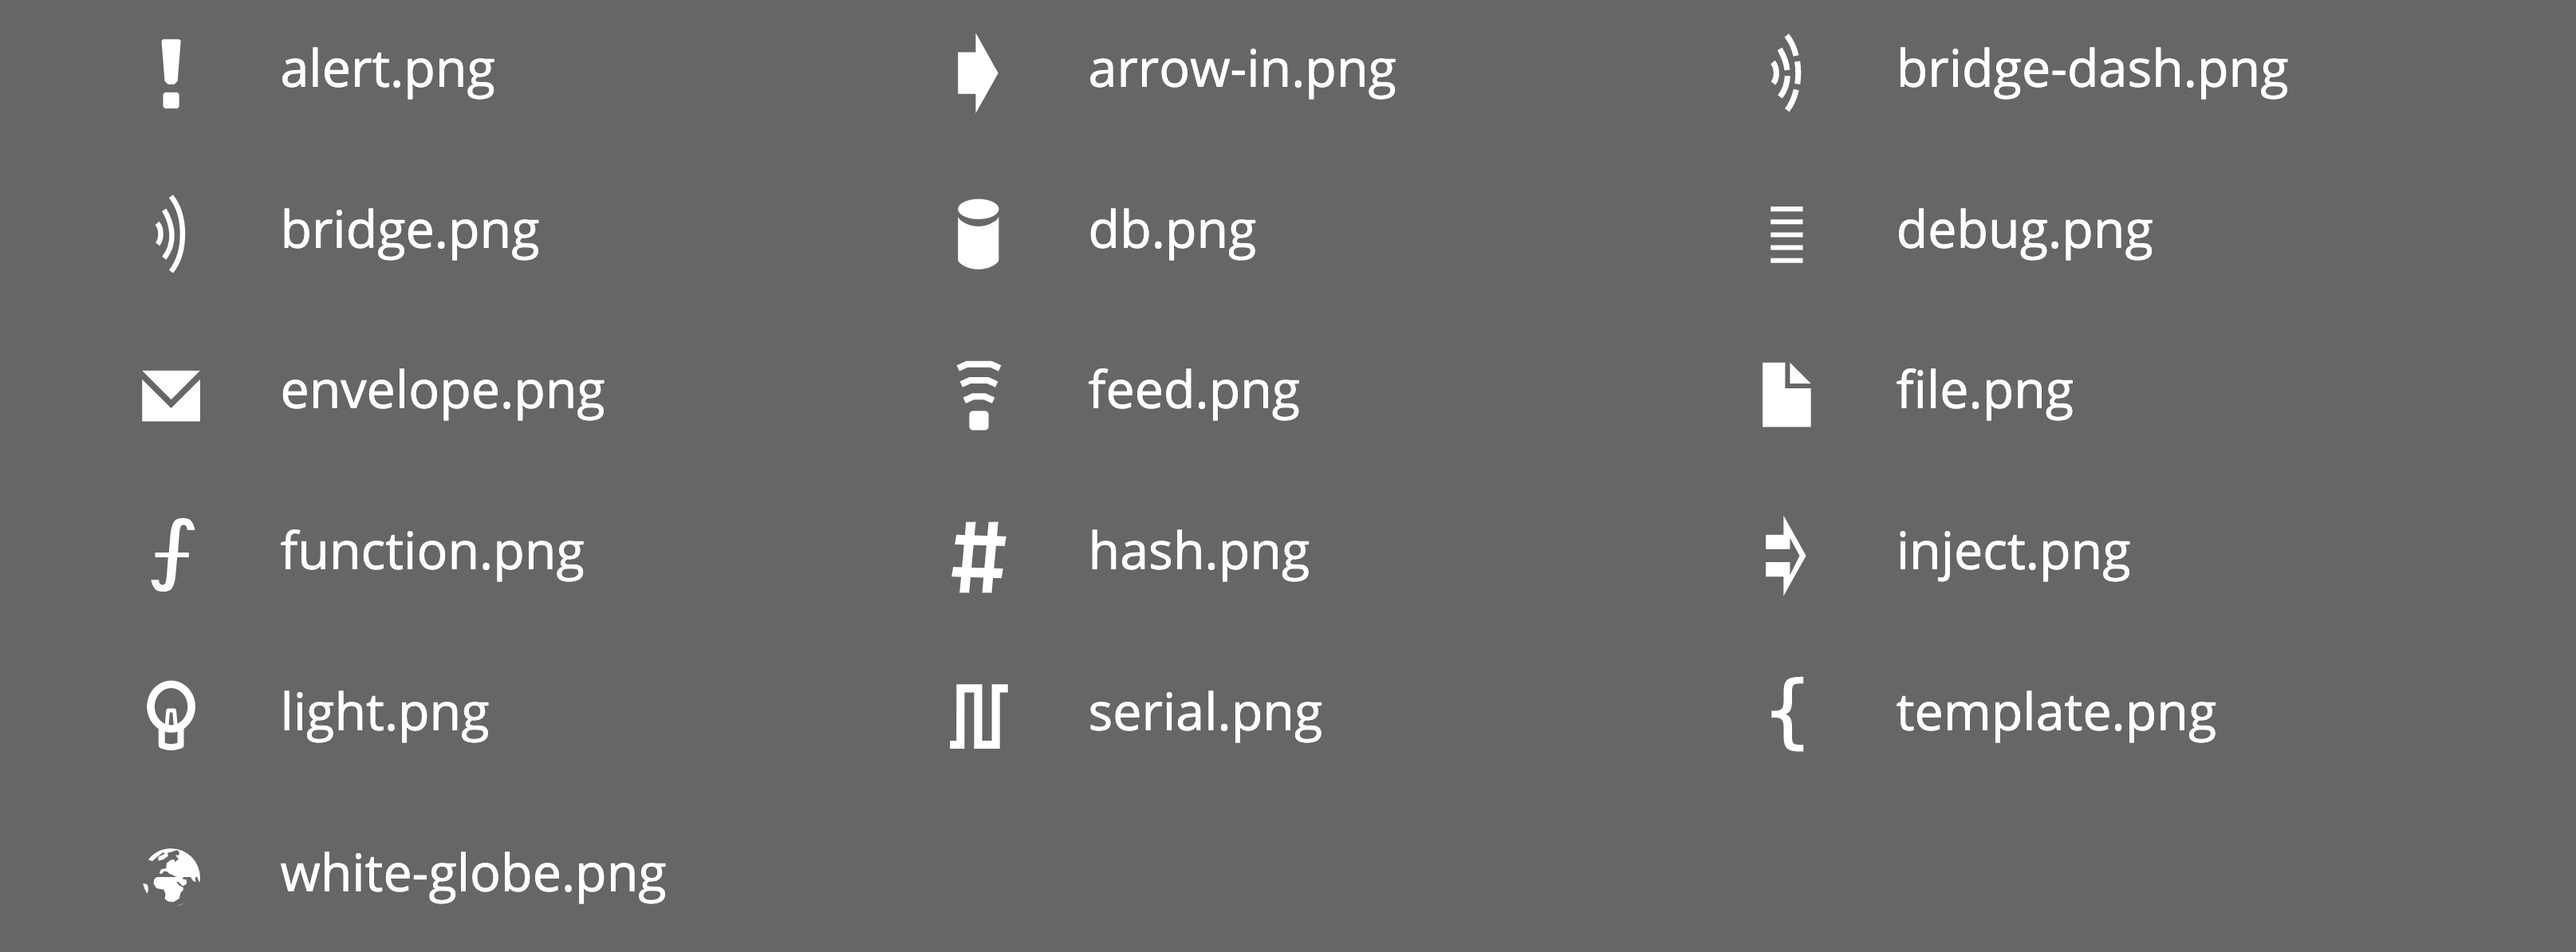
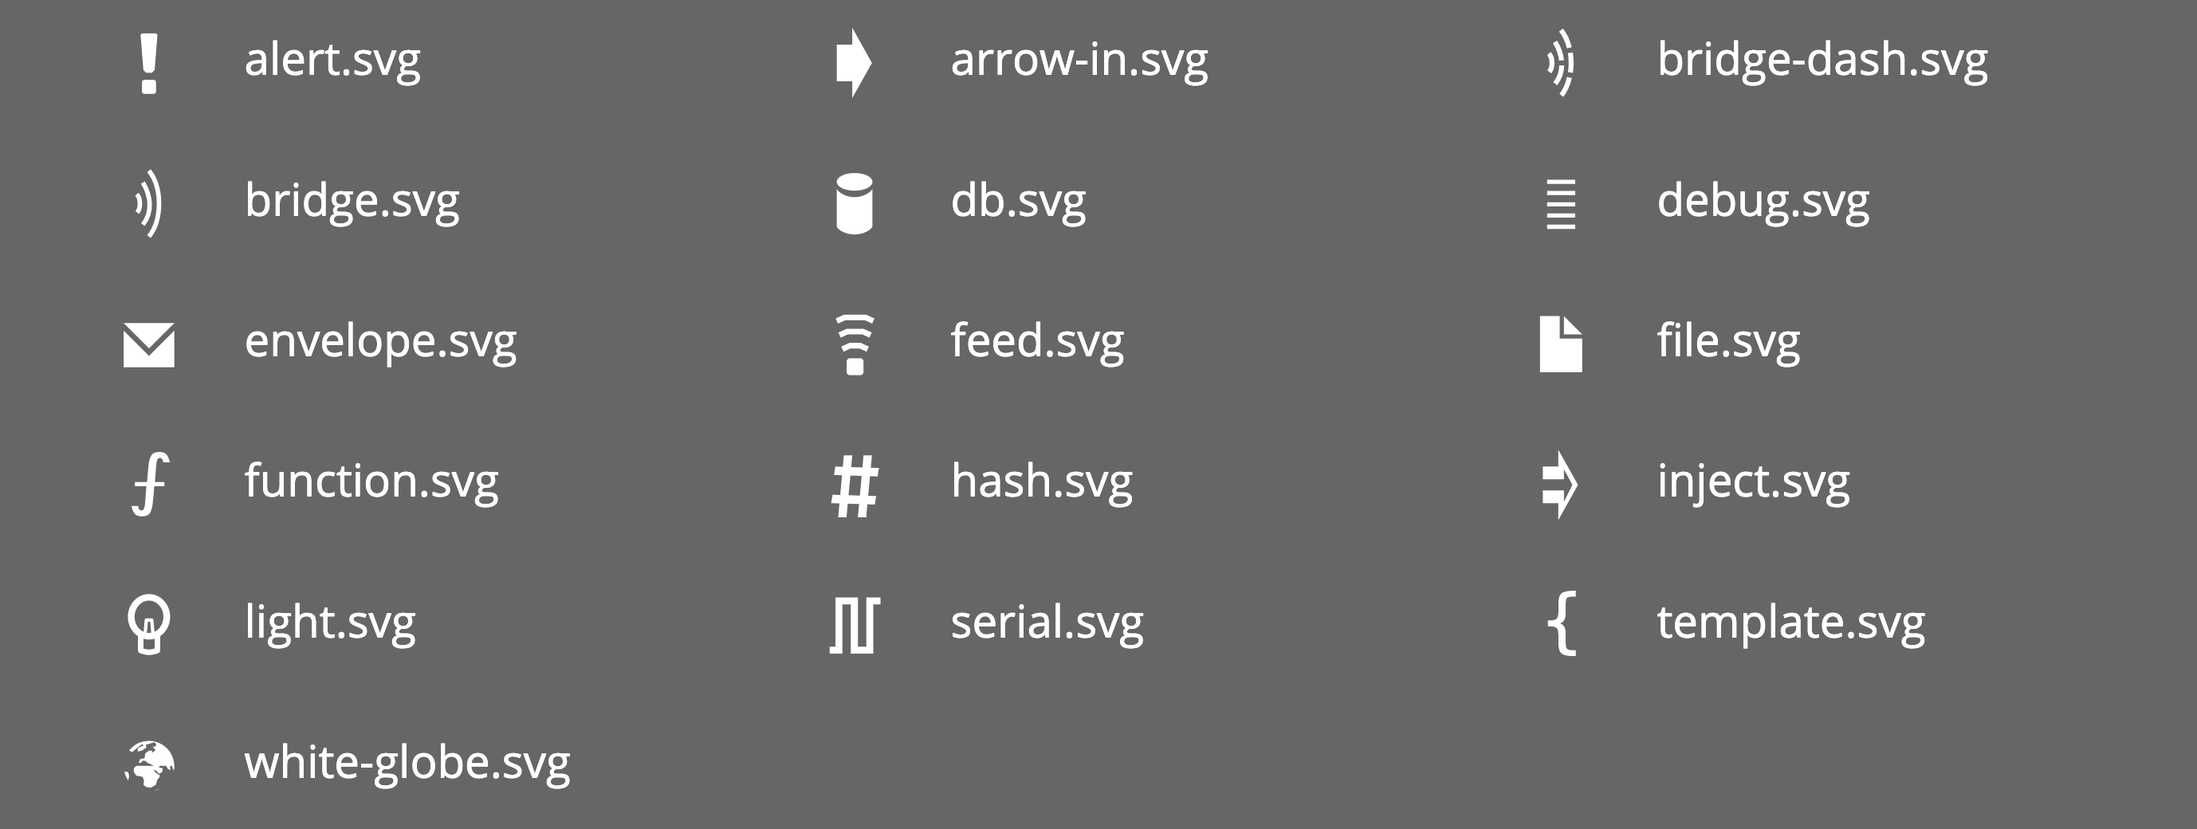
アイコン指定の説明を修正

diff --git a/README.md b/README.md
@@ -358,6 +358,9 @@ icon: "file.png",
 
 好きなアイコンを選んでください。例では **bridge.svg** を使います。
 
+注意：
+Node-RED 1.0以降、見栄えを良くするためにこれらのアイコンがすべてSVGに置き換えられました。下位互換性を確保するために、pngを指定することも可能ですが、エディターはpngとしてのリクエストをSVGに自動的に変更します（利用可能な場合）。ですので、SVGを指定するほうが良いでしょう。
+
 node.htmlを開いて以下のように編集してください。
 
 <img src="./images/img30.png" />
